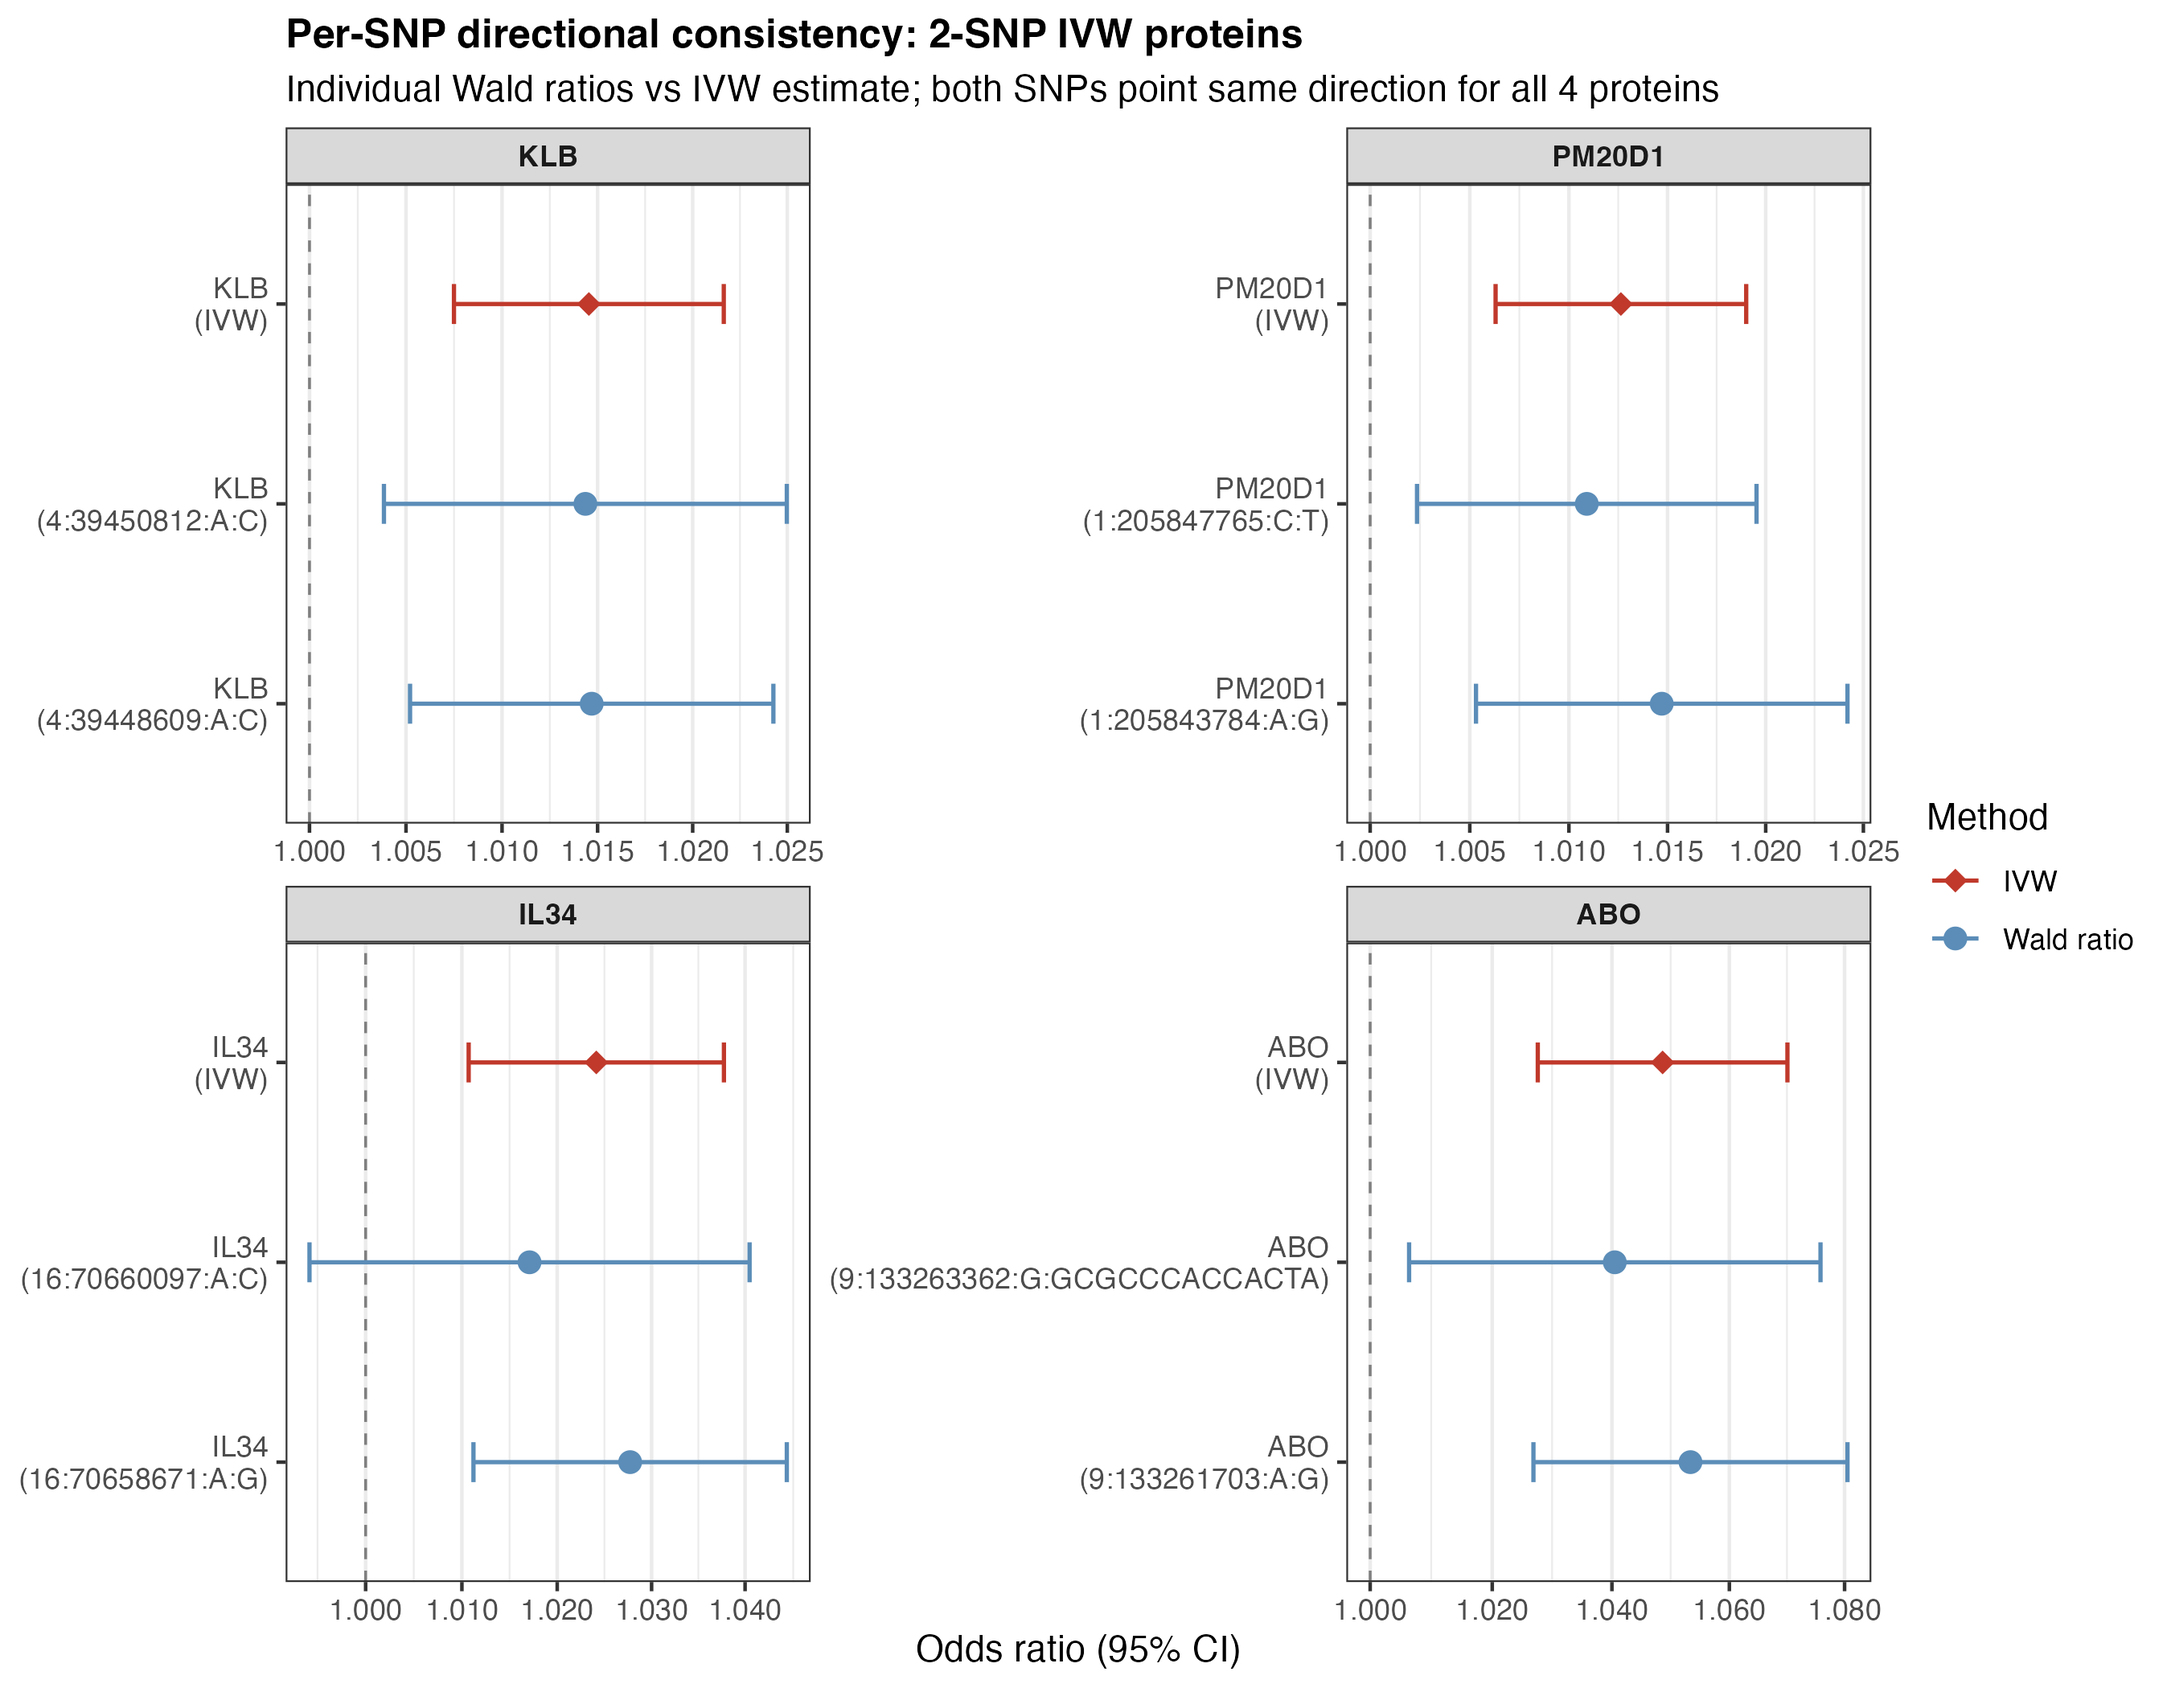
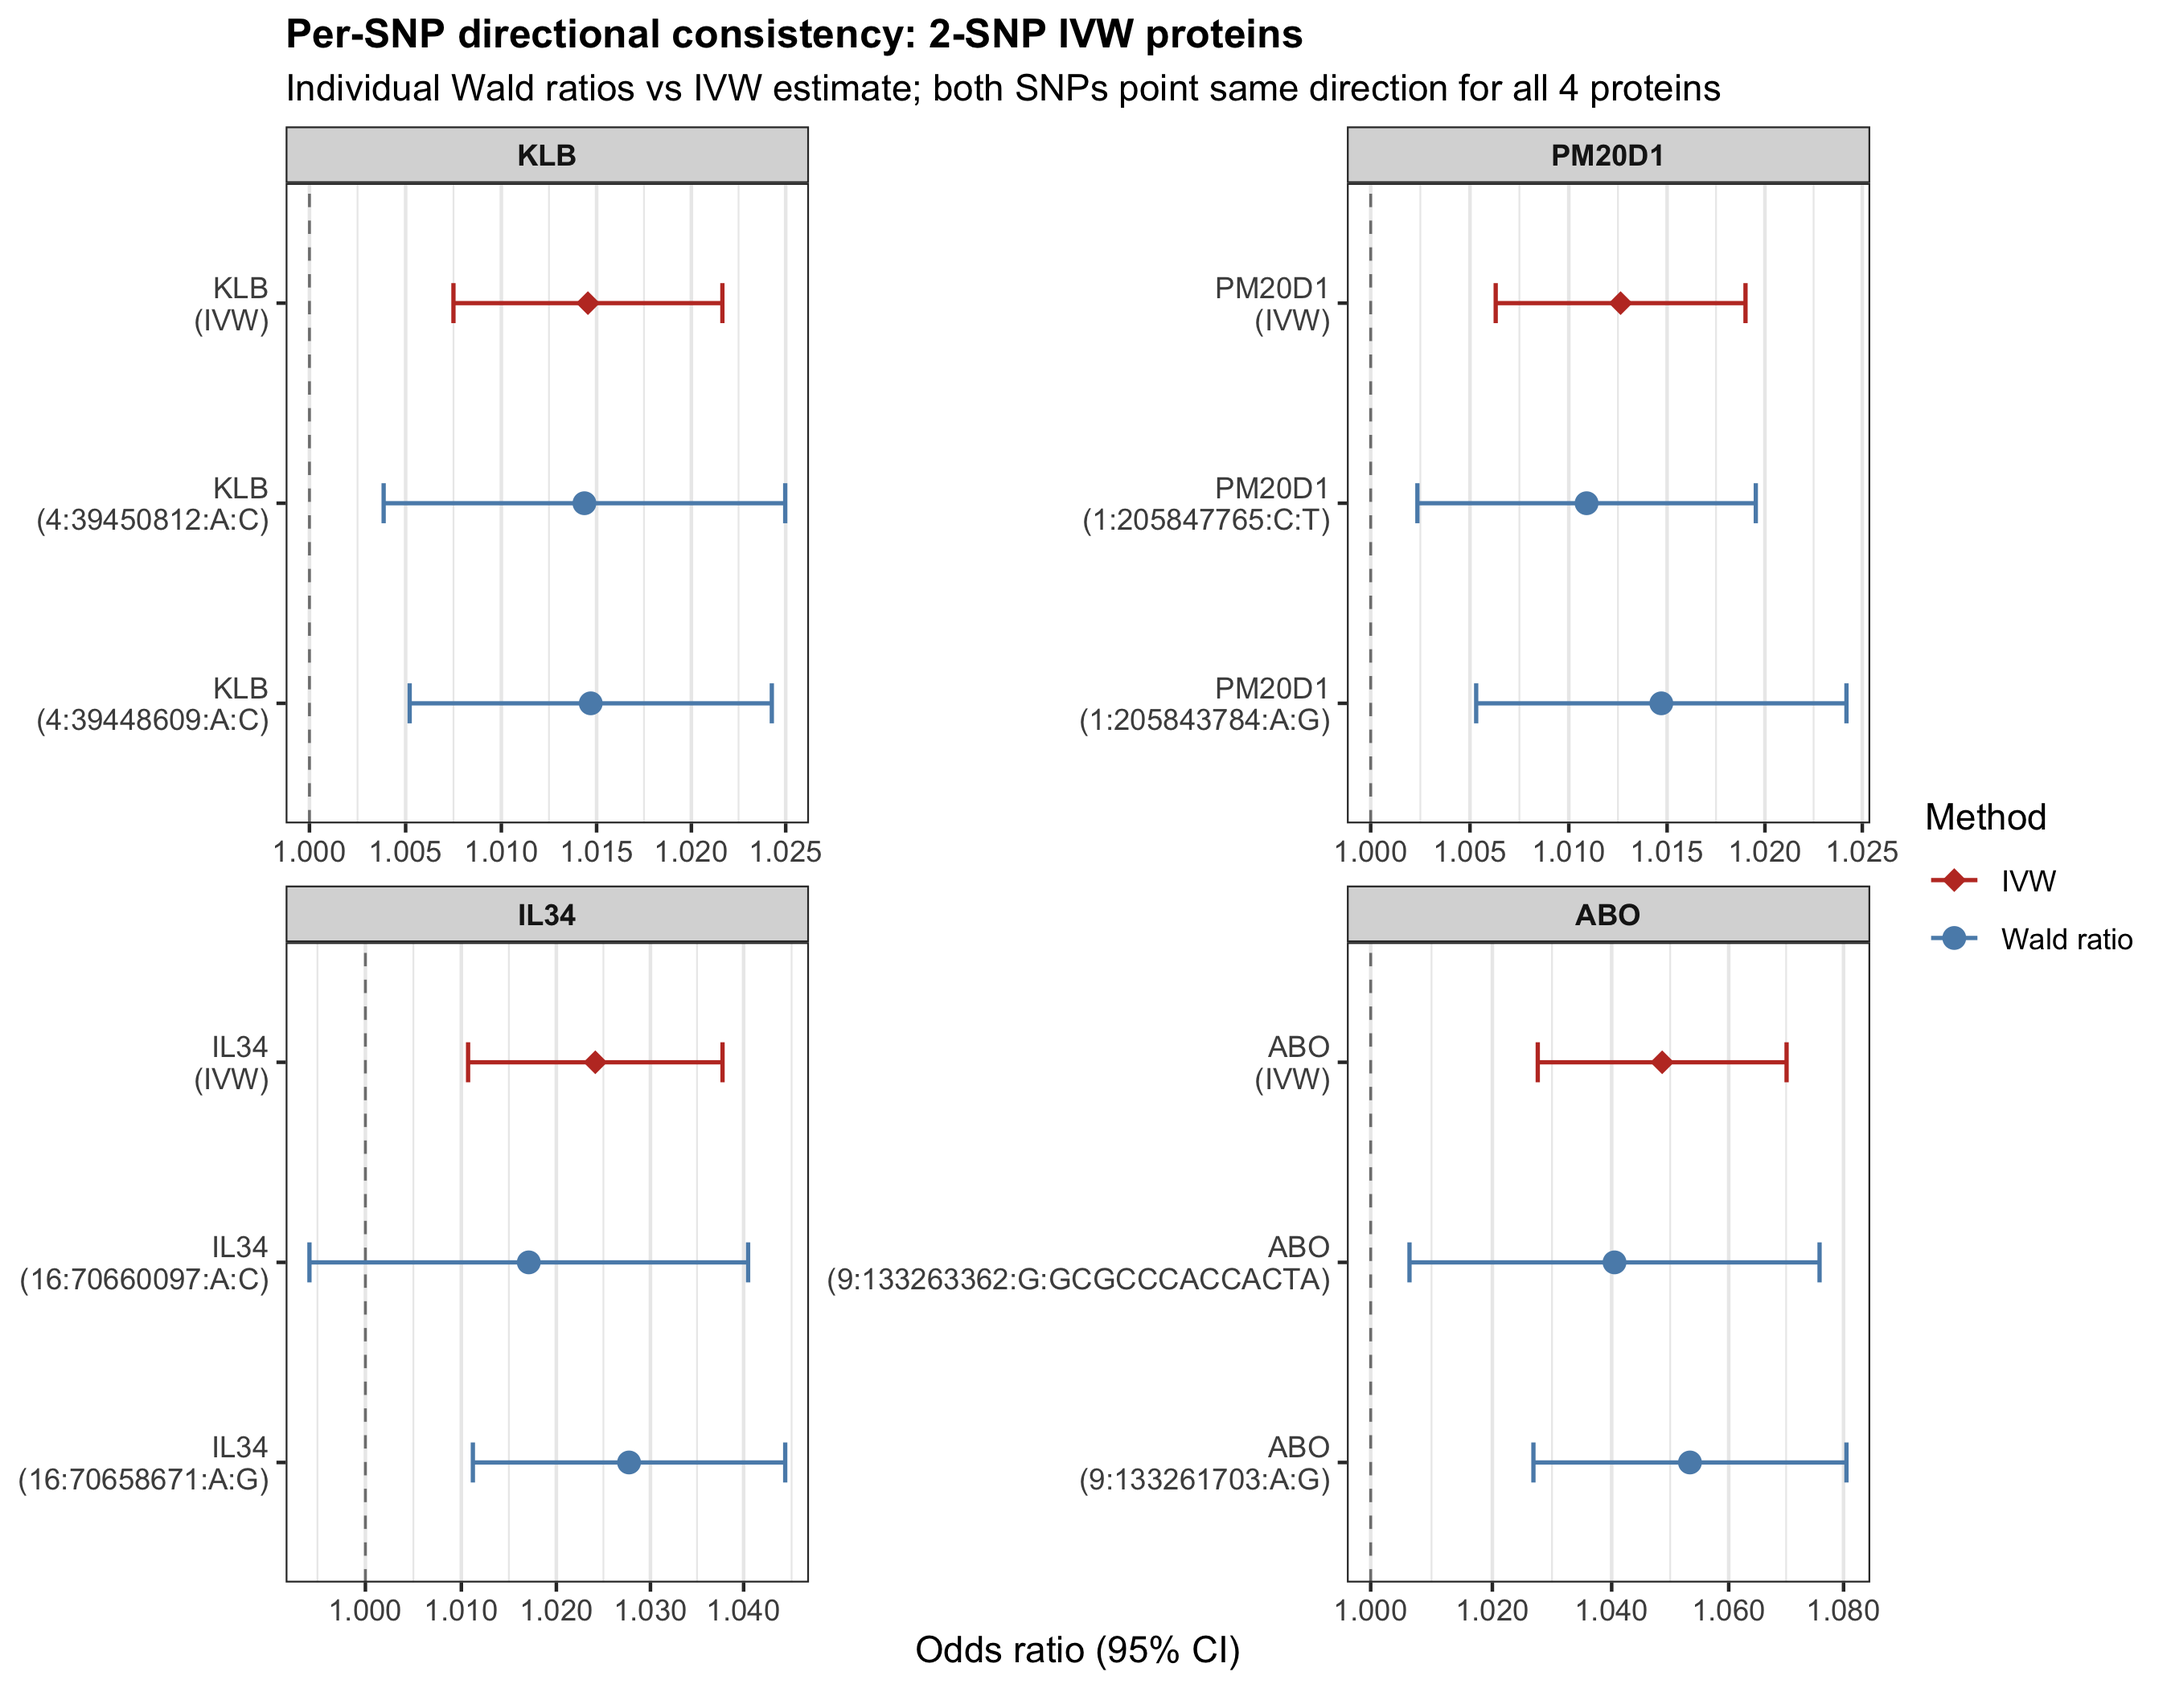
Sync public site and scripts with the T1‡/LD-sensitivity and terminology fixes
- README/docs/index.html: EFNA1 and ATRAID described as primary-analysis
  SuSiE-supported but LD-sensitive (T1‡), not unqualified colocalization
  support alongside FGF5/TNFRSF6B; MR Screen nav description corrected to
  the 504/614/582 harmonised-test framing.
- docs/data/STable2_17_FDR_hits_complete.csv: refreshed from
  results/tables/ to replace stale "No formal heterogeneity" wording with
  the current "No FDR-supported heterogeneity (independence approximation)".
- docs/figures/ + results/figures/ + results/decode/: regenerated PNGs at
  600 dpi with the T1‡ visual fix (gold/suggestive fill and explicit
  LD-sensitive labels for EFNA1/ATRAID coloc cells instead of solid green)
  and corrected cross-platform-vs-replication wording.
- scripts/25, 45, 46, 48, 52, 53, 87, plot_forest.R: the generating-script
  changes behind the above figure and wording corrections.

diff --git a/docs/index.html b/docs/index.html
@@ -61,7 +61,7 @@
           <tr>
             <td><strong>Tier 1</strong><br>(High confidence)</td>
             <td>FDR-significant MR + strong colocalization by coloc.abf <em>or</em> coloc.susie.</td>
-            <td>EFNA1, TNFRSF6B, ATRAID, FGF5<br><em>Comparator:</em> ABO (Endometrial)</td>
+            <td>TNFRSF6B, FGF5 (robust)<br>EFNA1&Dagger;, ATRAID&Dagger; (LD-sensitive, see below)<br><em>Comparator:</em> ABO (Endometrial)</td>
           </tr>
           <tr>
             <td><strong>Tier 2a</strong><br>(Moderate/Provisional)</td>
@@ -87,7 +87,7 @@
           <div class="card mb-4">
             <div class="card-header">How to navigate this page</div>
             <ul>
-              <li><strong>MR Screen</strong> — Proteome-wide volcano plot of all 701 × 3 protein–cancer tests.</li>
+              <li><strong>MR Screen</strong> — Proteome-wide volcano plot of the 504/614/582 protein–cancer tests analysed for breast/endometrial/ovarian cancer (1,700 total; 701 cis-instrumentable proteins).</li>
               <li><strong>Forest Plot</strong> — Effect estimates (odds ratio, 95% CI) for all 17 FDR-significant associations.</li>
               <li><strong>Colocalization</strong> — PPH4 posterior probabilities from coloc.abf and coloc.SuSiE.</li>
               <li><strong>ER Subtypes</strong> — ER-positive vs ER-negative subtype stratification.</li>

diff --git a/README.md b/README.md
@@ -32,7 +32,7 @@ The analysis combines:
 
 - We screened the 701 circulating proteins that met cis-instrument criteria out of the ~2,900 assayed on the FinnGen R10 Olink panel.
 - Seventeen protein–cancer associations survived false discovery rate correction: 16 for breast cancer and one for endometrial cancer.
-- Colocalization-supported breast cancer candidates included **EFNA1**, **TNFRSF6B**, **ATRAID**, and **FGF5**.
+- Colocalization-supported breast cancer candidates included **FGF5** and **TNFRSF6B**; **EFNA1** and **ATRAID** met the primary SuSiE colocalization threshold but were sensitive to linkage-disequilibrium specification (T1‡).
 - **UMOD** showed a provisional breast cancer signal supported by coloc.abf only.
 - **ABO** represented a distinct endometrial cancer comparator signal.
 - **SNX15** and **PM20D1** were supported by MR and Bonferroni-significant MAGMA gene-level evidence but were not classified as colocalized protein–cancer signals.
